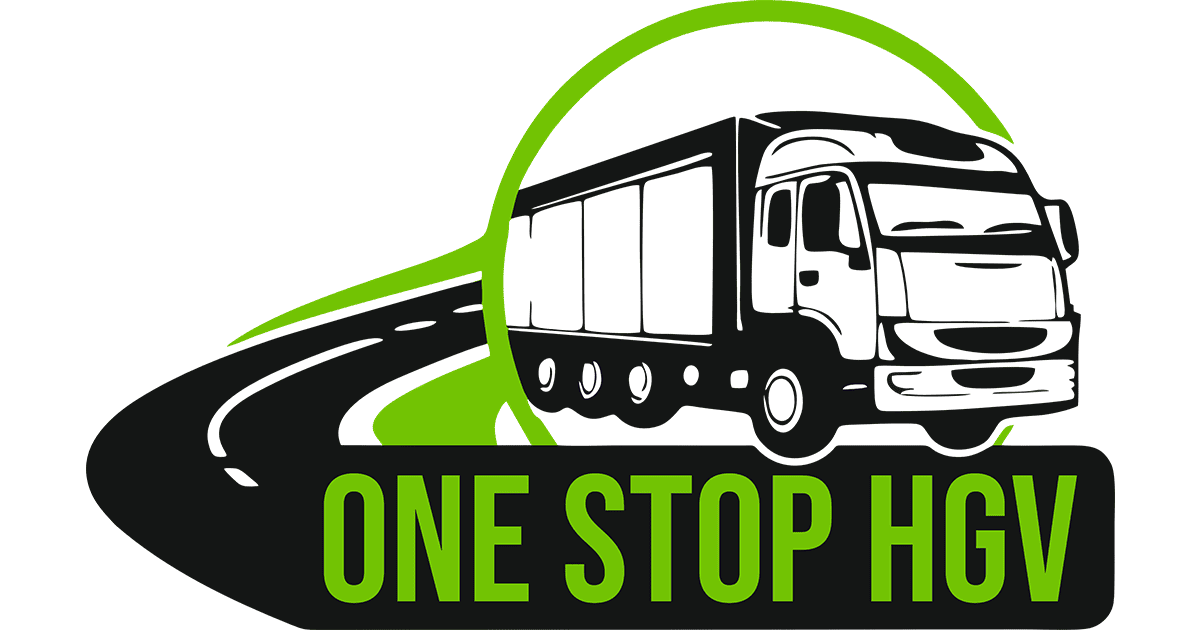
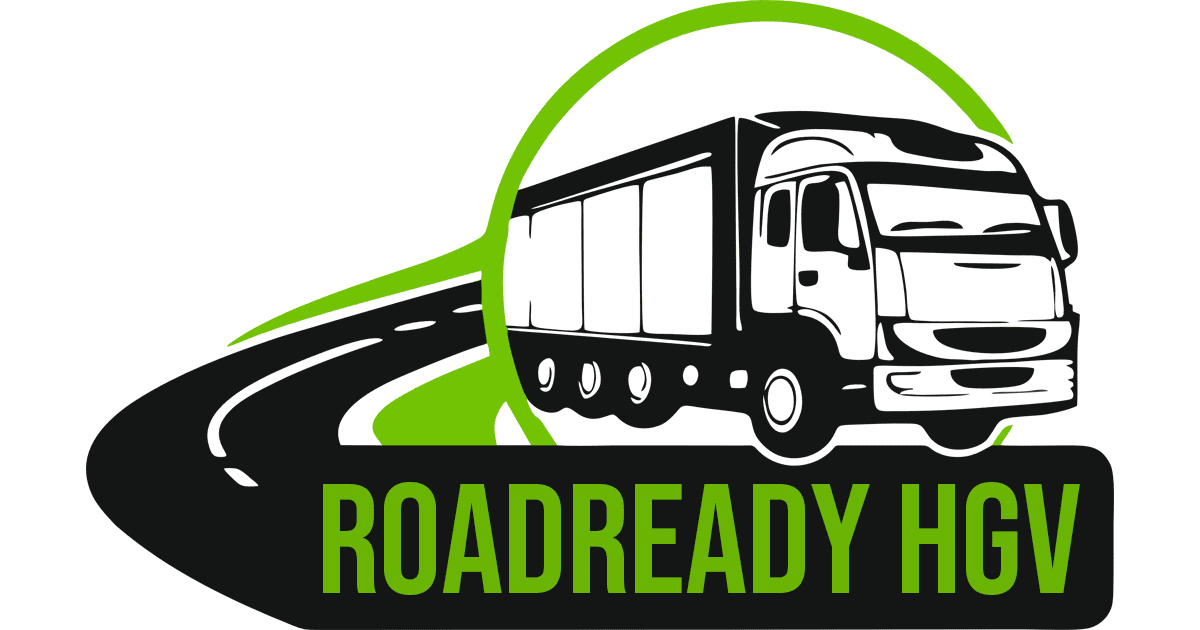
Changed all mention of onestophgv to roadreadhgv

diff --git a/app/page.js b/app/page.js
@@ -44,7 +44,7 @@ export default function Page() {
           </p>
         </div>
 
-        <div className='grid grid-cols-1 gap-x-8 gap-y-16 px-4 md:grid-cols-2 xl:grid-cols-4'>
+        <div className='grid grid-cols-1 px-4 gap-x-8 gap-y-16 md:grid-cols-2 xl:grid-cols-4'>
           {COURSES_CARDS.map((card) => (
             <ProductCards
               key={card.id}
@@ -64,7 +64,7 @@ export default function Page() {
       >
         <span className='flex items-center text-center xs:mt-10 md:col-span-2 md:px-8 lg:px-12 xl:px-4 2xl:items-start 2xl:px-6'>
           <h1 className='relative text-6xl text-white after:absolute after:bottom-0 after:left-1/2 after:h-1 after:w-24 after:-translate-x-2/4 after:bg-white sm:text-7xl lg:text-8xl'>
-            Why Choose One Stop HGV?
+            Why Choose Road Ready HGV?
           </h1>
         </span>
         <div className='space-y-10 xs:pl-4'>
@@ -77,7 +77,7 @@ export default function Page() {
             training, we’re here to help every step of the way.
           </p>
           <p className='text-lg font-bold text-white sm:text-xl lg:text-2xl'>
-            At One Stop HGV, we make the process as smooth and stress-free as
+            At Road Ready HGV, we make the process as smooth and stress-free as
             possible, focusing on the administrative side while you concentrate
             on your training
           </p>
@@ -89,7 +89,7 @@ export default function Page() {
         className='mx-auto flex min-h-[600px] max-w-[1800px] flex-col gap-6 px-4 md:flex-row md:items-center'
         id='contact'
       >
-        <div className='mb-4 flex flex-col gap-16 pl-4 xs:mt-10 md:mb-16'>
+        <div className='flex flex-col gap-16 pl-4 mb-4 xs:mt-10 md:mb-16'>
           <div>
             <h1 className='text-5xl lg:text-6xl 2xl:text-7xl'>
               Want to find out more?
@@ -105,7 +105,7 @@ export default function Page() {
           </div>
           <ContactDetails contact={CONTACT_DATA} />
         </div>
-        <div className='mb-16 w-full max-w-xl px-4 pl-6 sm:ml-2 md:mb-0 md:ml-auto 2xl:max-w-2xl'>
+        <div className='w-full max-w-xl px-4 pl-6 mb-16 sm:ml-2 md:mb-0 md:ml-auto 2xl:max-w-2xl'>
           <ContactForm />
         </div>
       </section>

diff --git a/app/layout.js b/app/layout.js
@@ -8,14 +8,14 @@ import Header from '@components/Header';
 import Footer from '@components/Footer';
 
 export const metadata = {
-  title: { template: '%s - One Stop HGV', default: 'One Stop HGV' },
+  title: { template: '%s - Road Ready HGV', default: 'Road Ready HGV' },
   description:
-    'One Stop HGV offers comprehensive HGV training services, helping you gain the skills and qualifications needed to start or advance your career in heavy goods vehicle driving. With experienced instructors, flexible training options, and a commitment to your success, we make becoming a certified HGV driver easy and accessible.',
+    'Road Ready HGV offers comprehensive HGV training services, helping you gain the skills and qualifications needed to start or advance your career in heavy goods vehicle driving. With experienced instructors, flexible training options, and a commitment to your success, we make becoming a certified HGV driver easy and accessible.',
   twitter: {
     card: 'summary_large_image',
   },
   openGraph: {
-    url: 'https://www.onestophgv.com/',
+    url: 'https://www.roadreadyhgv.com/',
     type: 'website',
   },
 };

diff --git a/app/_components/Logo.js b/app/_components/Logo.js
@@ -29,10 +29,10 @@ function Logo() {
         src={logoPNG}
         height={90}
         width={147}
-        alt='One Stop HGV - Professional HGV Training Services Logo'
+        alt='Road Ready HGV - Professional HGV Training Services Logo'
         className='h-auto'
         priority
-        aria-label='Go to One Stop HGV Homepage'
+        aria-label='Go to Road Ready HGV Homepage'
       />
     </Link>
   );
